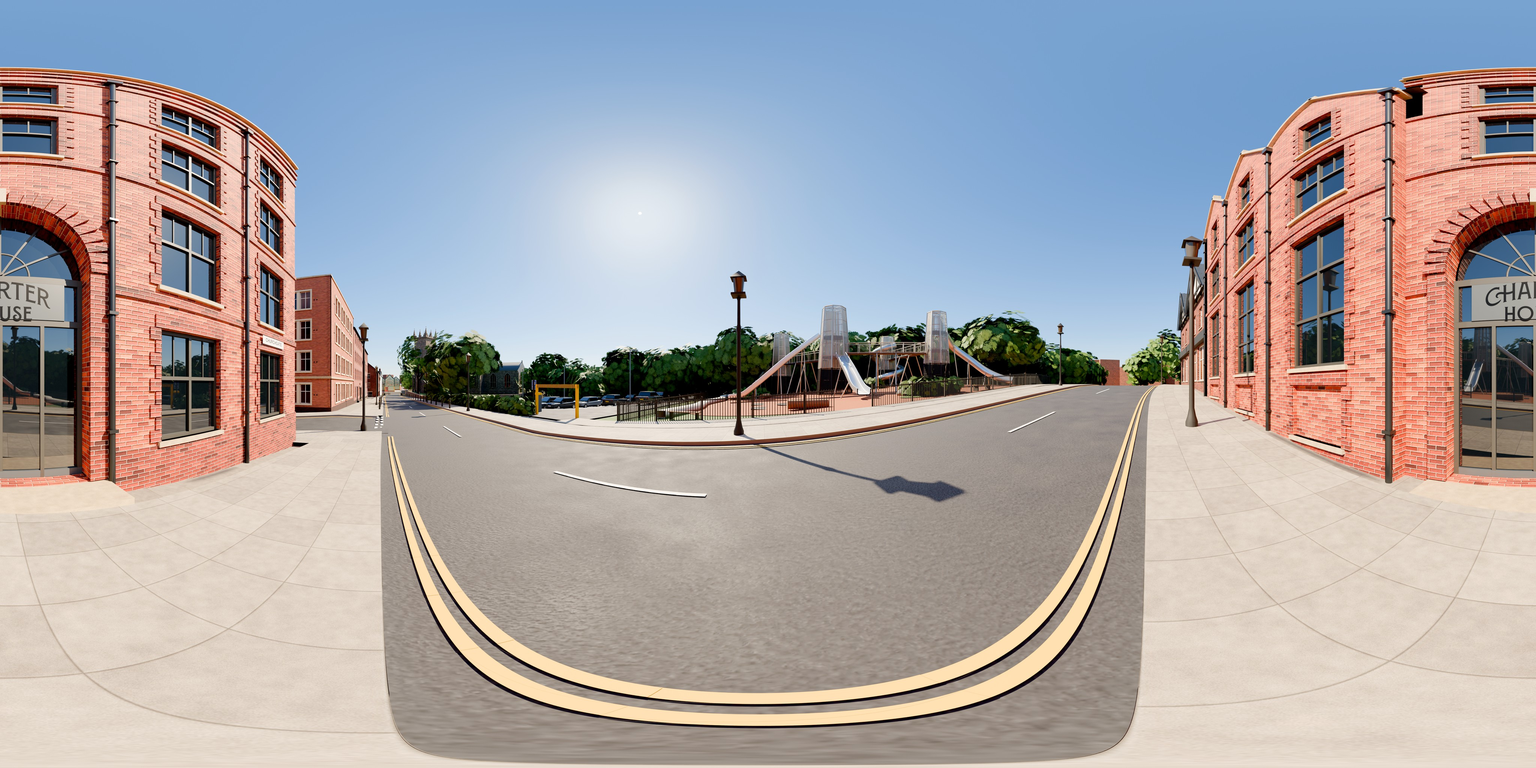
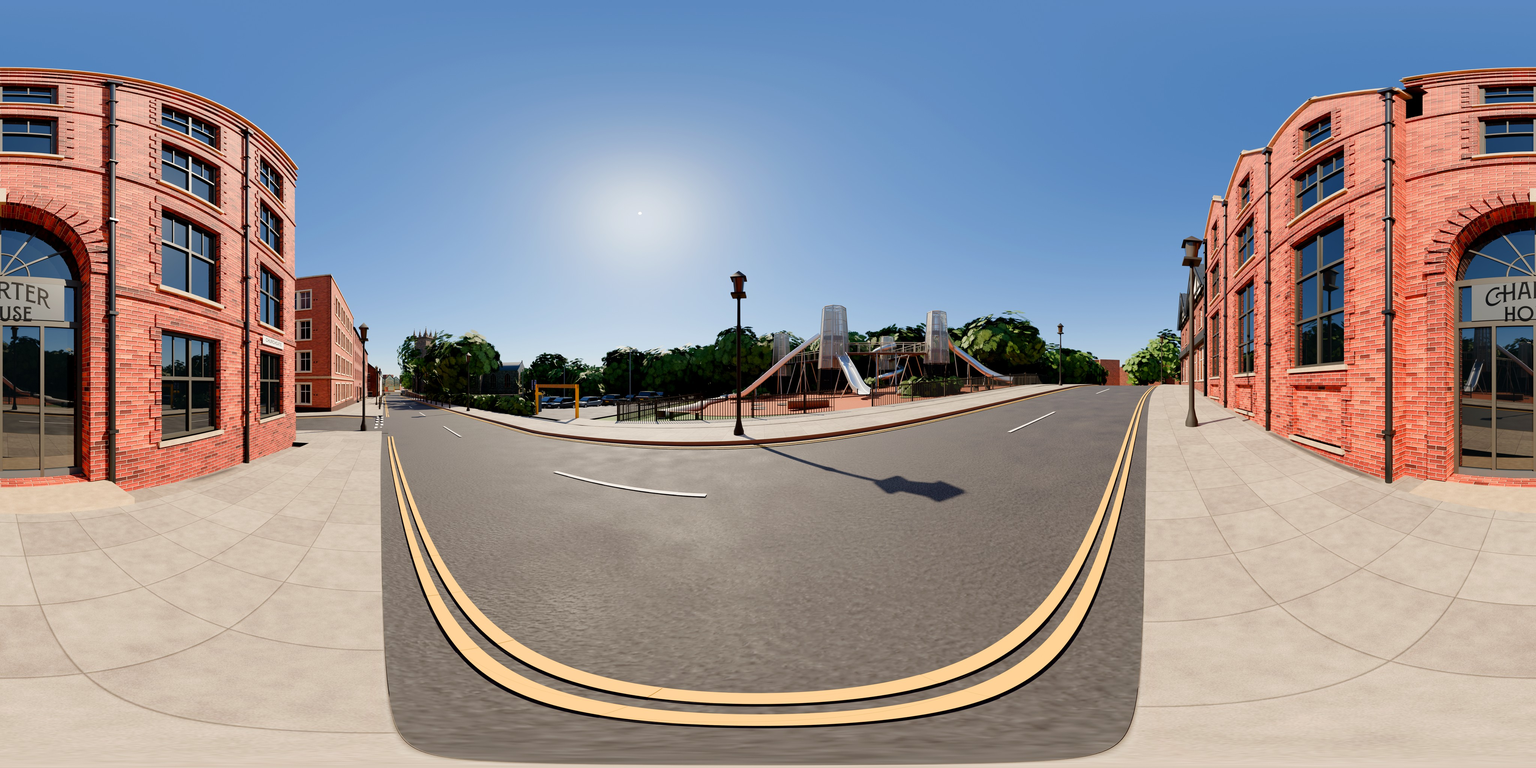
Entrance 360: Charter House front sunlit, brick re-graded; new picture
Claude-Session: https://claude.ai/code/session_01Sctq4um1xTpqE9nkUqTPNP

diff --git a/3d/js/main.js b/3d/js/main.js
@@ -2090,8 +2090,8 @@ function buildSpots() {
   }
   // photoreal path-traced 360s of the rooms (rendered offline from this model; listed in assets/pano/index.json)
   for (const p of PANO_INDEX) {
-    if (p.spot) { const sp = SPOTS.find((q) => q.id === p.spot); if (sp) { sp.pano = `pano/${p.file}.jpg?v=1794786000`; sp.hd = !!p.hd; sp.glide = false; sp.note = sp.note + ' Photoreal 360°: drag to look round.'; } continue; }   // a street spot with its own photoreal 360
-    SPOTS.push({ id: 'pano-' + p.file, name: p.name, at: V3(...p.pos), look: V3(...p.look), pano: `pano/${p.file}.jpg?v=1794786000`, hd: !!p.hd, glide: false, type: p.type, plot: p.plot, room: p.room || p.name, note: p.note || 'Photoreal 360°. Drag to look round.' });
+    if (p.spot) { const sp = SPOTS.find((q) => q.id === p.spot); if (sp) { sp.pano = `pano/${p.file}.jpg?v=1794791000`; sp.hd = !!p.hd; sp.glide = false; sp.note = sp.note + ' Photoreal 360°: drag to look round.'; } continue; }   // a street spot with its own photoreal 360
+    SPOTS.push({ id: 'pano-' + p.file, name: p.name, at: V3(...p.pos), look: V3(...p.look), pano: `pano/${p.file}.jpg?v=1794791000`, hd: !!p.hd, glide: false, type: p.type, plot: p.plot, room: p.room || p.name, note: p.note || 'Photoreal 360°. Drag to look round.' });
   }
   const LINKS = {"wellington": [], "garden": ["garden2", "walk1", "walktop"], "garden2": ["garden", "walk1"], "walk1": ["garden", "walktop"], "walktop": ["garden", "walk1"], "stjoseph": ["fletcher"], "fletcher": ["stjoseph"], "roof": [], "corner": ["park", "arch", "harvey", "smg"], "park": ["corner", "arch"], "arch": ["corner", "park"], "harvey": ["smg", "corner", "brewery"], "brewery": ["harvey"], "smg": ["harvey", "corner"], "courtyard": ["walkway"], "walkway": ["courtyard"], "church": [], "market": []};   // the spots you can actually see from each spot (pins never show through walls)
   for (const sp of SPOTS) sp.links = LINKS[sp.id] || [];

diff --git a/3d/index.html b/3d/index.html
@@ -721,6 +721,6 @@ input, textarea, #udet .kv, #udet .contact { -webkit-user-select: text; user-sel
   "three/addons/": "https://cdn.jsdelivr.net/npm/three@0.169.0/examples/jsm/"
 } }
 </script>
-<script type="module" src="js/main.js?v=1794786000"></script>
+<script type="module" src="js/main.js?v=1794791000"></script>
 
 </body></html>
